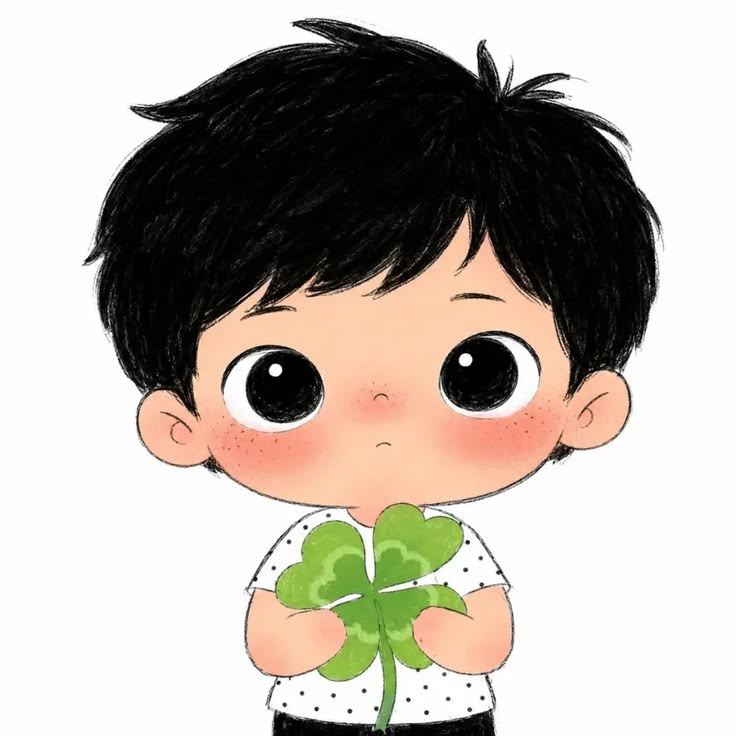
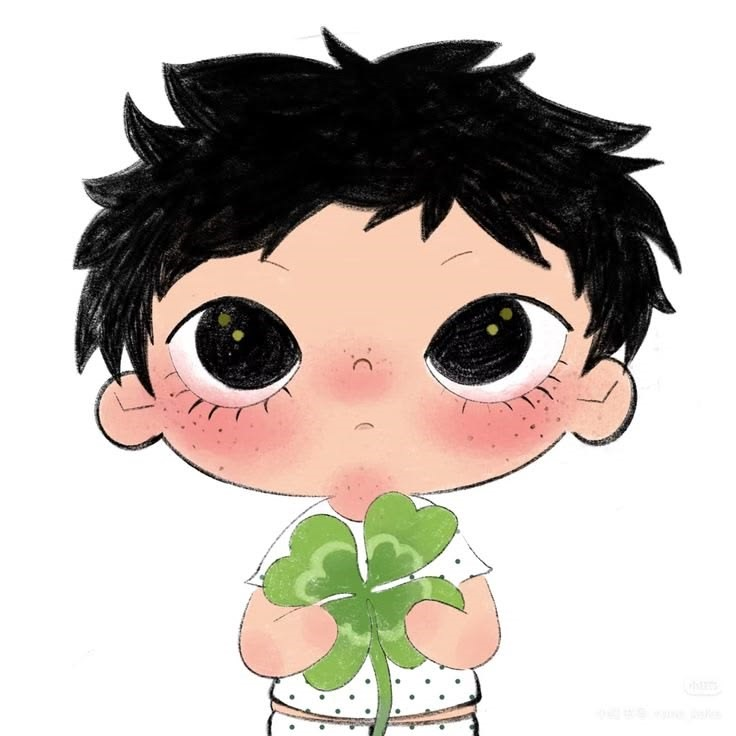
Update character Rian portrait and synchronize index.html

Changed region(s): [[0.0938, 0.0, 0.9375, 1.0], [0.625, 0.1562, 0.6562, 0.1875]]

diff --git a/hakita_hak_dan_kewajiban_kita.html b/hakita_hak_dan_kewajiban_kita.html
@@ -1674,29 +1674,29 @@
         // Scenarios with 4 realistic options
         const scenarios = {
             1: {
-                tag: "Skenario 1: Ruang Kelas & Istirahat",
-                title: "Siulan & Komentar Risih di Lorong Sekolah",
-                desc: "\"Aduhh Rara, hari ini rapi sekali sih... mau kemana kok cantik banget?\" Saat berjalan di lorong, beberapa teman sekelas bersiul keras dan melontarkan komentar bernuansa seksual yang membuatmu risih dan tidak nyaman.",
-                moodFemale: "« Merasa Risih & Waspada di Lorong »",
+                tag: "Skenario 1: Lorong Sekolah – Komentar Risih",
+                title: "Komentar di Lorong Sekolah",
+                desc: "\"Aduhh, Rara, hari ini rapi sekali sih... mau ke mana kok cantik banget?\" Saat berjalan di lorong, beberapa teman sekelas bersiul dan melontarkan komentar bernuansa seksual yang membuatmu risih.",
+                moodFemale: "« Merasa Risih & Waspada »",
                 moodMale: "« Memperhatikan Situasi & Waspada »",
                 choices: [
                     { 
                         code: "A",
-                        text: "Tertawa canggung berpura-pura santai agar tidak merusak suasana atau dicap baperan.", 
+                        text: "Ikut tertawa agar situasi tidak semakin canggung.", 
                         type: "bad",
                         title: "Dilema: Menormalisasi Pelecehan Verbal",
                         desc: "Meskipun niatmu menghindari konflik sosial, menertawakan atau membiarkan siulan bernuansa seksual akan dinormalisasi sebagai candaan biasa. Ini membuat pelaku berpotensi mengulanginya kepada orang lain." 
                     },
                     { 
                         code: "B",
-                        text: "Membalas berteriak marah dengan kata-kata kasar secara emosional di depan umum.", 
+                        text: "Jika merasa aman, katakan dengan tegas bahwa komentar tersebut membuatmu tidak nyaman dan minta mereka berhenti.", 
                         type: "neutral",
                         title: "Risiko: Escalation (Eskalasi Konflik)",
                         desc: "Merespons emosional secara agresif bisa memicu argumentasi balik dan situasi yang makin memanas di tempat umum tanpa menyelesaikan akar masalah penanganan." 
                     },
                     { 
                         code: "C",
-                        text: "Menatap tegas dan menyampaikan singkat: 'Komentar seperti itu tidak sopan dan membuat saya risih', lalu pergi menjauh.", 
+                        text: "Membalas dengan hinaan dan menantang mereka untuk menyelesaikan masalah setelah sekolah.", 
                         type: "good",
                         title: "Langkah Tepat: Set Boundary (Tegur Tegas)",
                         desc: "Sangat baik! Menetapkan batasan (boundary) secara tenang dan tegas memperjelas bahwa tindakan tersebut tidak dapat diterima tanpa membahayakan dirimu." 

diff --git a/index.html b/index.html
@@ -1674,29 +1674,29 @@
         // Scenarios with 4 realistic options
         const scenarios = {
             1: {
-                tag: "Skenario 1: Ruang Kelas & Istirahat",
-                title: "Siulan & Komentar Risih di Lorong Sekolah",
-                desc: "\"Aduhh Rara, hari ini rapi sekali sih... mau kemana kok cantik banget?\" Saat berjalan di lorong, beberapa teman sekelas bersiul keras dan melontarkan komentar bernuansa seksual yang membuatmu risih dan tidak nyaman.",
-                moodFemale: "« Merasa Risih & Waspada di Lorong »",
+                tag: "Skenario 1: Lorong Sekolah – Komentar Risih",
+                title: "Komentar di Lorong Sekolah",
+                desc: "\"Aduhh, Rara, hari ini rapi sekali sih... mau ke mana kok cantik banget?\" Saat berjalan di lorong, beberapa teman sekelas bersiul dan melontarkan komentar bernuansa seksual yang membuatmu risih.",
+                moodFemale: "« Merasa Risih & Waspada »",
                 moodMale: "« Memperhatikan Situasi & Waspada »",
                 choices: [
                     { 
                         code: "A",
-                        text: "Tertawa canggung berpura-pura santai agar tidak merusak suasana atau dicap baperan.", 
+                        text: "Ikut tertawa agar situasi tidak semakin canggung.", 
                         type: "bad",
                         title: "Dilema: Menormalisasi Pelecehan Verbal",
                         desc: "Meskipun niatmu menghindari konflik sosial, menertawakan atau membiarkan siulan bernuansa seksual akan dinormalisasi sebagai candaan biasa. Ini membuat pelaku berpotensi mengulanginya kepada orang lain." 
                     },
                     { 
                         code: "B",
-                        text: "Membalas berteriak marah dengan kata-kata kasar secara emosional di depan umum.", 
+                        text: "Jika merasa aman, katakan dengan tegas bahwa komentar tersebut membuatmu tidak nyaman dan minta mereka berhenti.", 
                         type: "neutral",
                         title: "Risiko: Escalation (Eskalasi Konflik)",
                         desc: "Merespons emosional secara agresif bisa memicu argumentasi balik dan situasi yang makin memanas di tempat umum tanpa menyelesaikan akar masalah penanganan." 
                     },
                     { 
                         code: "C",
-                        text: "Menatap tegas dan menyampaikan singkat: 'Komentar seperti itu tidak sopan dan membuat saya risih', lalu pergi menjauh.", 
+                        text: "Membalas dengan hinaan dan menantang mereka untuk menyelesaikan masalah setelah sekolah.", 
                         type: "good",
                         title: "Langkah Tepat: Set Boundary (Tegur Tegas)",
                         desc: "Sangat baik! Menetapkan batasan (boundary) secara tenang dan tegas memperjelas bahwa tindakan tersebut tidak dapat diterima tanpa membahayakan dirimu." 
